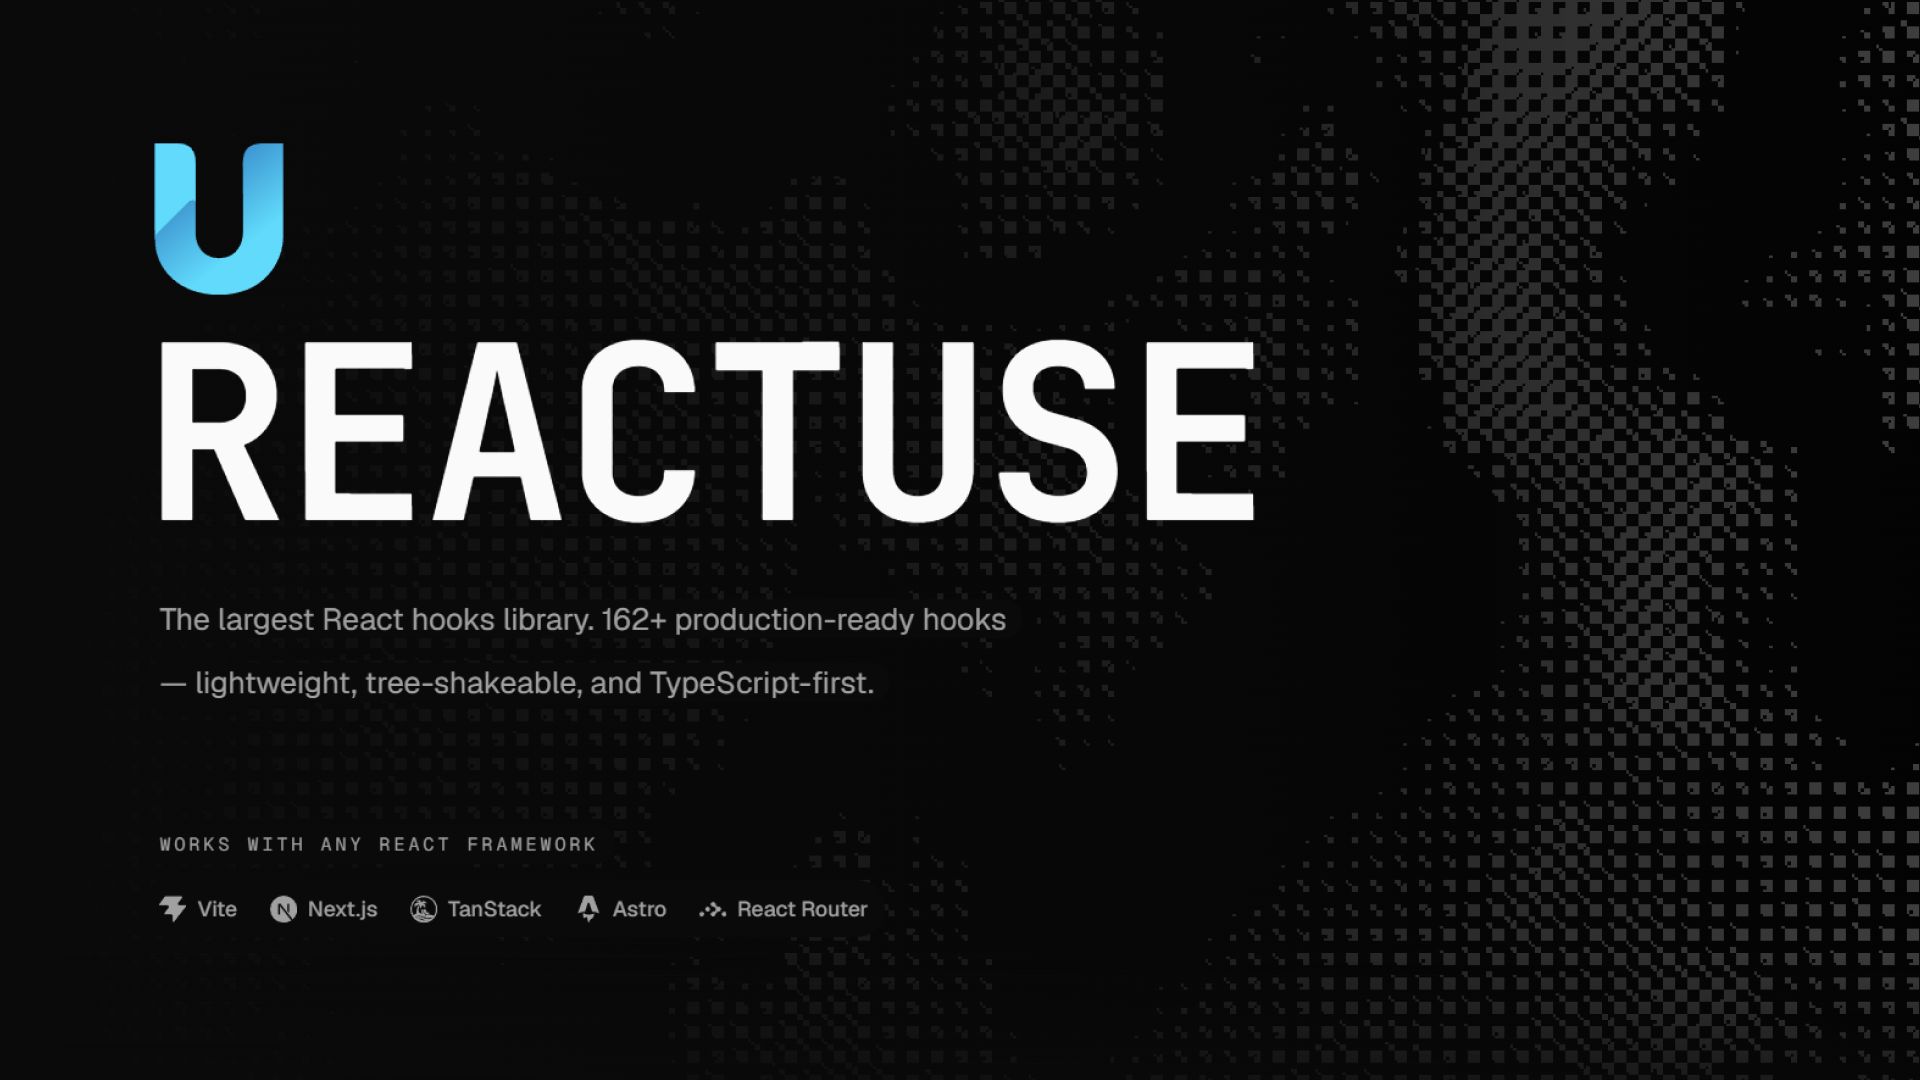
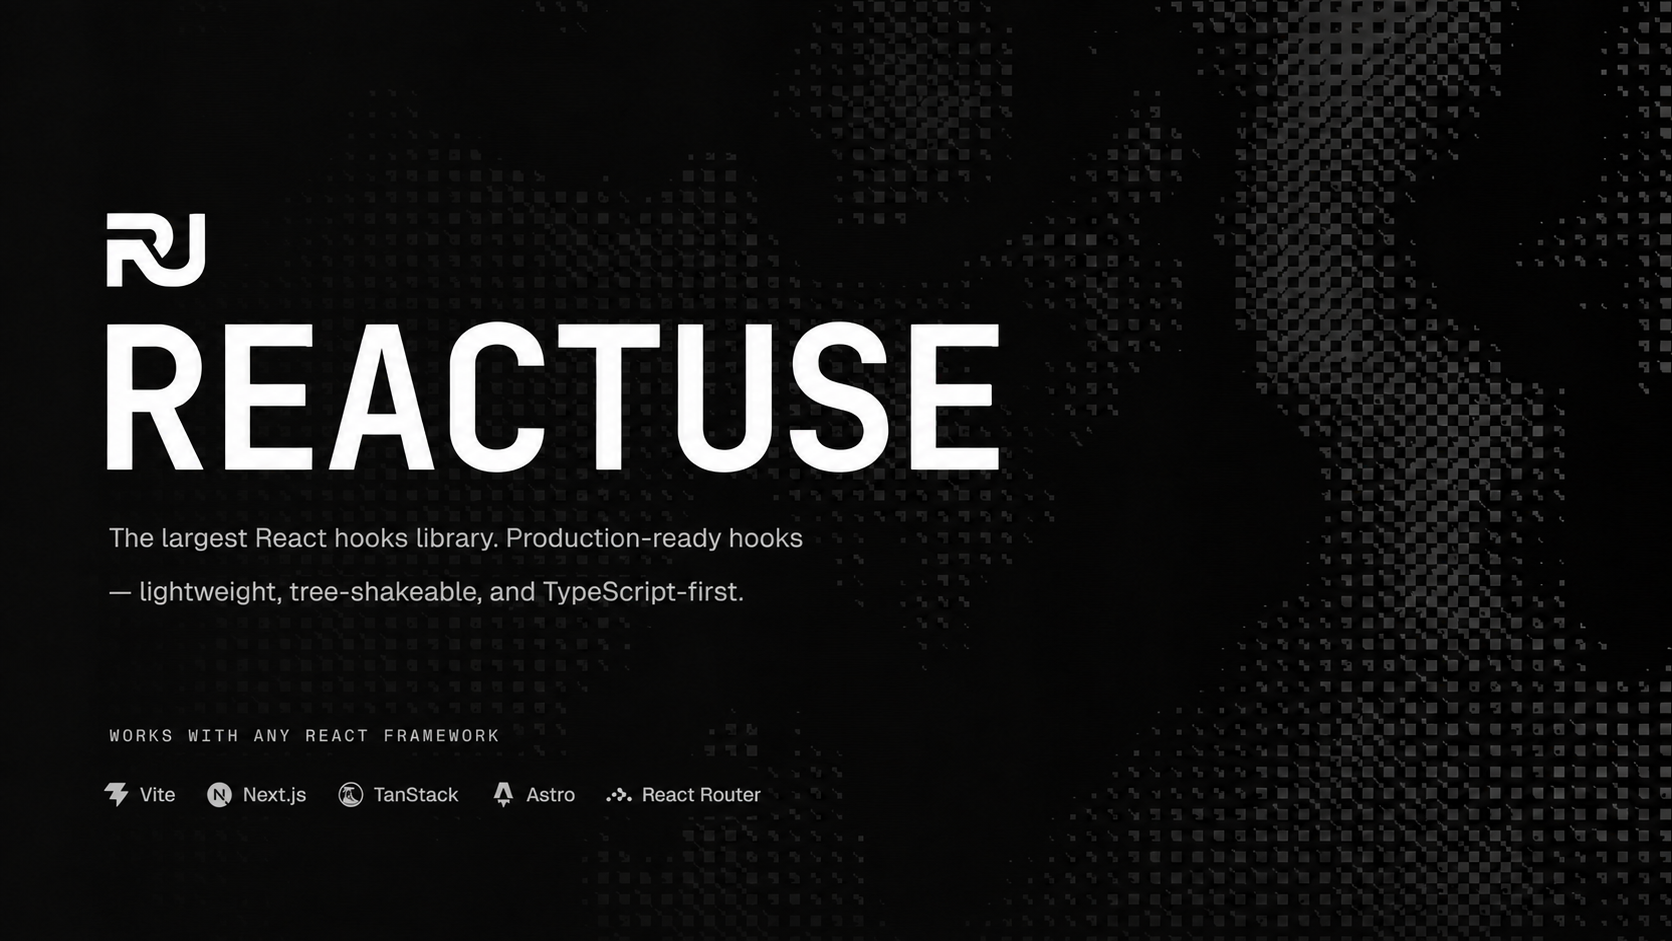
main 🧊 update og image

diff --git a/packages/newdocs/public/blog/08.2026-new-brand-logo.md b/packages/newdocs/public/blog/08.2026-new-brand-logo.md
@@ -1,0 +1,25 @@
+---
+title: 'A fresh new look for reactuse'
+description: We redesigned the reactuse logo — cleaner, more minimal, and built to scale.
+date: 2026-08-10
+---
+
+Today we're rolling out a new logo for reactuse. It's a small change on the surface and a meaningful one underneath — the mark you'll now see across the docs, npm, and GitHub is cleaner, more minimal, and built to hold up everywhere reactuse shows up.
+
+## Why we changed it
+
+The old gradient "U" served us well early on, but as the project grew it started to show its limits. Gradients get muddy at small sizes, don't invert cleanly for dark mode, and never quite felt like _reactuse_ — a library that's all about being sharp, typed, and no-nonsense.
+
+The new mark is a single monochrome monogram: high-contrast, geometric, and legible from a favicon up to a conference banner. One shape, one color, no gradient to fall apart when it's 16 pixels wide.
+
+## What's changing
+
+- **The logo** — a minimal black-and-white monogram replaces the gradient U.
+- **All docs** are all updated to the new mark.
+- **Everything else stays exactly the same** — same package, same `@siberiacancode/reactuse`, same hooks, no breaking changes. This is purely visual.
+
+## A real rebrand, not a repaint
+
+We're treating this as a proper milestone for the project's identity. A minimal, consistent mark makes reactuse easier to recognize, easier to embed, and honestly just looks like it belongs next to the tools you already reach for. It's the visual foundation we'll build the next chapter of reactuse on.
+
+Nothing you need to do — just enjoy the fresh look. Explore the [docs](https://reactuse.org/docs/introduction) or browse the [hooks](https://reactuse.org/functions) and let us know what you think.

diff --git a/packages/newdocs/public/blog/08.2026-extract-component-logic.md b/packages/newdocs/public/blog/08.2026-extract-component-logic.md
@@ -108,4 +108,4 @@ This isn't only about browser subscriptions like scroll or mouse. The bigger win
 
 So extract when the hook is a **real unit of behavior** with a clear contract — not just to shorten a file. And when the return shape grows, split by **feature boundary** first: pull deck editing into its own `useDeckEditing` only once it's independently meaningful, not merely because the parent hook got long.
 
-Browse the [full hook list](https://reactuse.org/functions) and the [reactuse skills](/docs/skills) to compose your next feature hook. 🧊
+Browse the [full hook list](https://reactuse.org/functions) and the [reactuse skills](/docs/skills) to compose your next feature hook.
